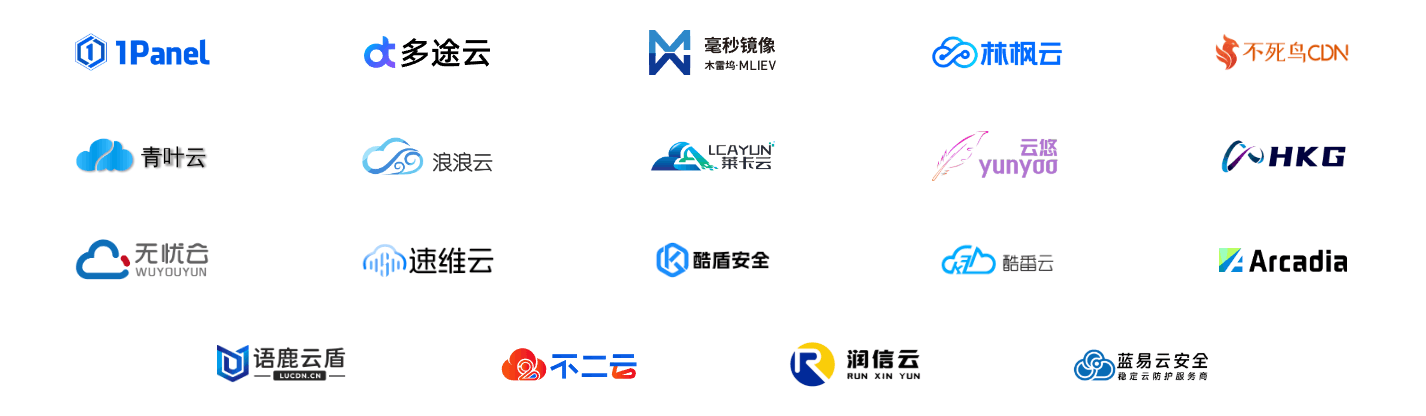
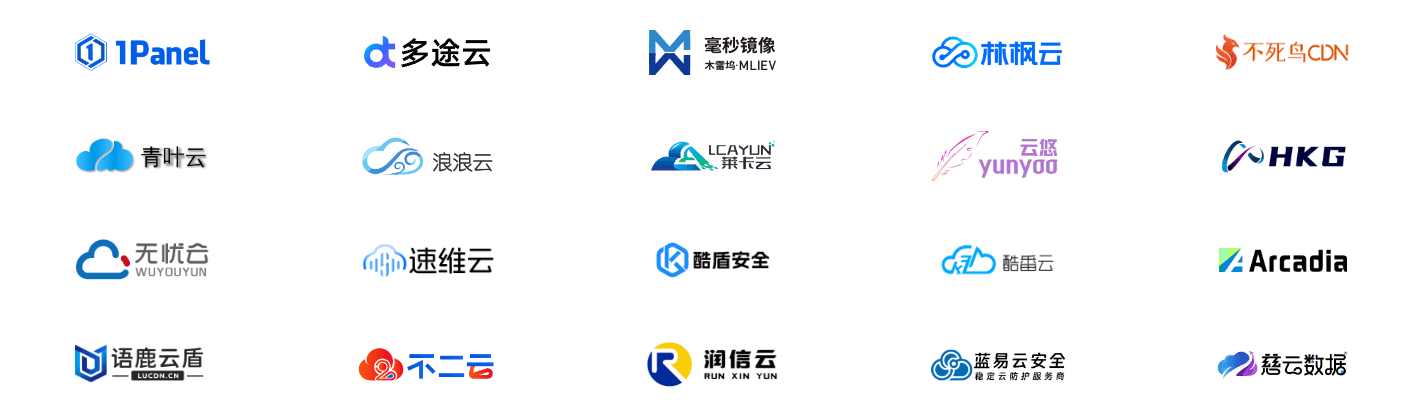
更新文档

Changed region(s): [[0.0309, 0.8125, 0.9565, 0.9375]]

diff --git a/docs/theme/partials/toc.html b/docs/theme/partials/toc.html
@@ -14,7 +14,7 @@
         <strong>{{'Sponsors' if i18n_page_locale == 'en' else '贊助商' if i18n_page_locale == 'zh-Hant' else '赞助商'}}</strong>
       </div>
       <div class="sponsor-wrapper sponsor-flex-wrapper-toc no-select">
-        <a class="sponsor-item sponsor-item-toc sponsor-item-toc-full-row" target="_blank" rel="noopener noreferrer" href="https://1panel.cn" title="新一代的 Linux 服务器运维管理面板">
+        <a class="sponsor-item sponsor-item-toc" target="_blank" rel="noopener noreferrer" href="https://1panel.cn" title="新一代的 Linux 服务器运维管理面板">
           <img src="/assets/images/sponsor/1panel.png" alt="1Panel" style="filter: grayscale(1) invert(0.6)" />
         </a>
         <a class="sponsor-item sponsor-item-toc" target="_blank" rel="noopener noreferrer" href="https://www.duotuyun.com" title="智能化防护，每一次连接皆在安全之下">
@@ -88,6 +88,10 @@
         <a class="sponsor-item sponsor-item-toc" target="_blank" href="https://www.tsycdn.com" title="高防CDN，国内BGP多线/香港/死扛CC/DDos攻击">
           <img src="/assets/images/sponsor/lanyiyun-light.png#only-light" alt="蓝易云" style="filter: grayscale(1) invert(0.3)" />
           <img src="/assets/images/sponsor/lanyiyun-dark.png#only-dark" alt="蓝易云" style="filter: grayscale(1) invert(0.7)" />
+        </a>
+        <a class="sponsor-item sponsor-item-toc" target="_blank" href="https://www.ciyundata.com/cart/goods.htm?id=267" title="香港直连2H2G 99元/年">
+          <img src="/assets/images/sponsor/ciyunshuju-light.png#only-light" alt="慈云数据" style="filter: grayscale(1) invert(0.4)" />
+          <img src="/assets/images/sponsor/ciyunshuju-dark.png#only-dark" alt="慈云数据" style="filter: grayscale(1) invert(0.4)" />
         </a>
         <!-- <a class="sponsor-item sponsor-item-toc" target="_blank" rel="noopener noreferrer" title="{{'Become a Sponsor' if i18n_page_locale == 'en' else '成為贊助商' if i18n_page_locale == 'zh-Hant' else '成为赞助商'}}" href="/sponsor/">
           <span style="font-size: 0.6rem; opacity: 0.5">

diff --git a/docs/sponsor/main.html b/docs/sponsor/main.html
@@ -77,7 +77,7 @@
       <img src="/assets/images/sponsor/yuluyundun-dark.png#only-dark" alt="语鹿云盾" />
     </a>
     <a class="sponsor-item sponsor-item-flex" target="_blank" rel="noopener noreferrer" href="https://cb2.cn" title="国内外建站快响应服务器的不二之选">
-      <!-- 26 2 15 -->
+      <!-- 26 4 15 -->
       <img src="/assets/images/sponsor/bueryun.svg" alt="不二云" style="width: 64% !important" />
     </a>
     <a class="sponsor-item sponsor-item-flex" target="_blank" href="https://www.runxinyun.com" title="国内挂机宝海外云服务器低至9.9元/月">
@@ -89,6 +89,11 @@
       <!-- 26 3 23 -->
       <img src="/assets/images/sponsor/lanyiyun-light.png#only-light" alt="蓝易云" />
       <img src="/assets/images/sponsor/lanyiyun-dark.png#only-dark" alt="蓝易云" />
+    </a>
+    <a class="sponsor-item sponsor-item-flex" target="_blank" href="https://www.ciyundata.com/cart/goods.htm?id=267" title="香港直连2H2G 99元/年">
+      <!-- 26 6 8 -->
+      <img src="/assets/images/sponsor/ciyunshuju-light.png#only-light" alt="慈云数据" />
+      <img src="/assets/images/sponsor/ciyunshuju-dark.png#only-dark" alt="慈云数据" />
     </a>
   </div>
 </div>
